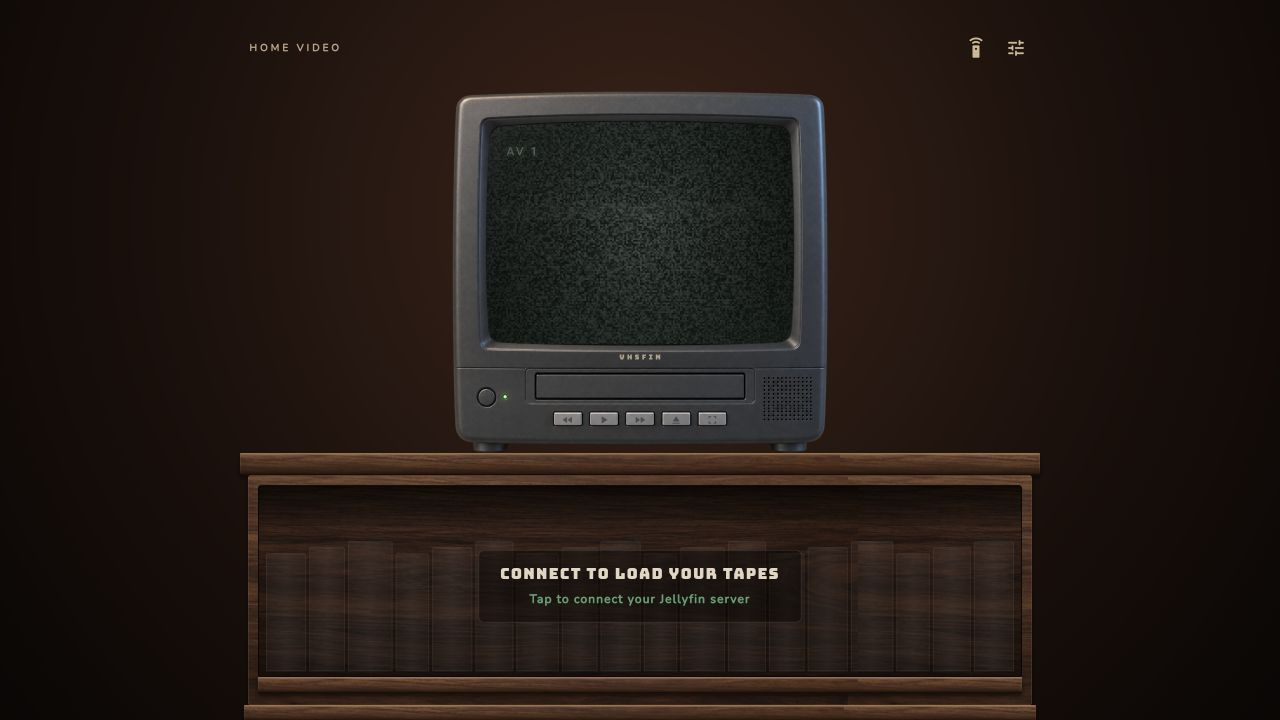
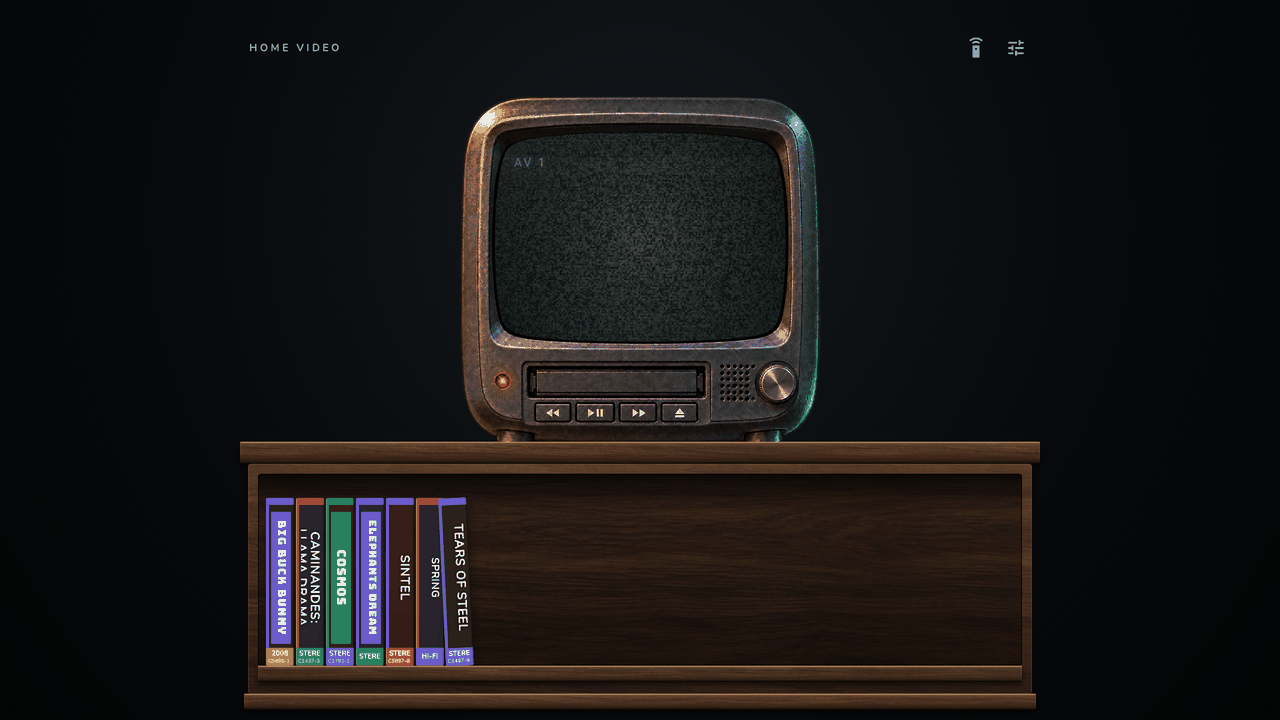
Refresh the README screenshots and badges for the new look
Screenshots are recaptured from a release build: the welcome screen and
the living room (demo shelf of Blender open movies) at phone and laptop
sizes, palette-reduced to stay small. Badge colours follow the charcoal
and cyan palette.

diff --git a/README.md b/README.md
@@ -4,9 +4,9 @@
 <h1 align="center">VHSFin</h1>
 <p align="center"><strong>Movie night, rewound.</strong><br>A small Jellyfin client with a VHS player interface.</p>
 <p align="center">
-  <a href="LICENSE"><img alt="License: PolyForm Noncommercial" src="https://img.shields.io/badge/license-PolyForm%20Noncommercial-8FE8A8?style=flat-square&labelColor=211E1A"></a>
-  <img alt="Built with Flutter" src="https://img.shields.io/badge/built_with-Flutter-F2E6D0?style=flat-square&labelColor=211E1A">
-  <img alt="Status: early access" src="https://img.shields.io/badge/status-early_access-E9A56B?style=flat-square&labelColor=211E1A">
+  <a href="LICENSE"><img alt="License: PolyForm Noncommercial" src="https://img.shields.io/badge/license-PolyForm%20Noncommercial-6FE0E6?style=flat-square&labelColor=111417"></a>
+  <img alt="Built with Flutter" src="https://img.shields.io/badge/built_with-Flutter-E6ECEE?style=flat-square&labelColor=111417">
+  <img alt="Status: early access" src="https://img.shields.io/badge/status-early_access-E0483E?style=flat-square&labelColor=111417">
 </p>
 <p align="center"><a href="#get-started">Get started</a> · <a href="#what-it-does">Take a look</a> · <a href="#self-host-the-web-app">Self-host</a> · <a href="CONTRIBUTING.md">Contribute</a></p>
 
@@ -31,7 +31,7 @@ The artwork above is project artwork; the screenshots below show the app. VHSFin
 
 <p align="center">
   <img src="docs/screenshots/connect.png" width="360" alt="VHSFin welcome screen with server and account fields">
-  <img src="docs/screenshots/living-room.png" width="360" alt="VHSFin living room ready to connect a Jellyfin library">
+  <img src="docs/screenshots/living-room.png" width="360" alt="VHSFin living room: a CRT TV above a walnut shelf of VHS tapes">
 </p>
 
 ## Get started

diff --git a/docs/screenshots/README.md b/docs/screenshots/README.md
@@ -2,8 +2,8 @@
 
 These are captures of the running Flutter web app, not generated UI mockups:
 
-- `connect.png`: the welcome and connection form, 430 × 1000 viewport.
-- `living-room.png`: the unconnected living room, 430 × 1000 viewport.
-- `desktop.png`: the living room on a 1280 × 720 laptop viewport.
+- `connect.png`: the welcome and connection form, 430 × 1000 viewport at 2×.
+- `living-room.png`: the living room with the demo shelf, 430 × 1000 viewport at 2×.
+- `desktop.png`: the same room on a 1280 × 720 laptop viewport.
 
-The README's movie-night image is a separate generated brand illustration. These screenshots intentionally contain no account credentials or copyrighted movie artwork. When updating them, run a release web build and capture the same viewport sizes, with blank login fields and no signed-in account.
+The README's movie-night image is a separate generated brand illustration. These screenshots intentionally contain no account credentials or copyrighted movie artwork: the shelf is `make demo`'s Blender open movies (CC BY) with printed spines. When updating them, serve the demo build, capture the same viewport sizes with blank login fields and no signed-in account, and reduce them to a 256-colour palette to keep the repository small.
